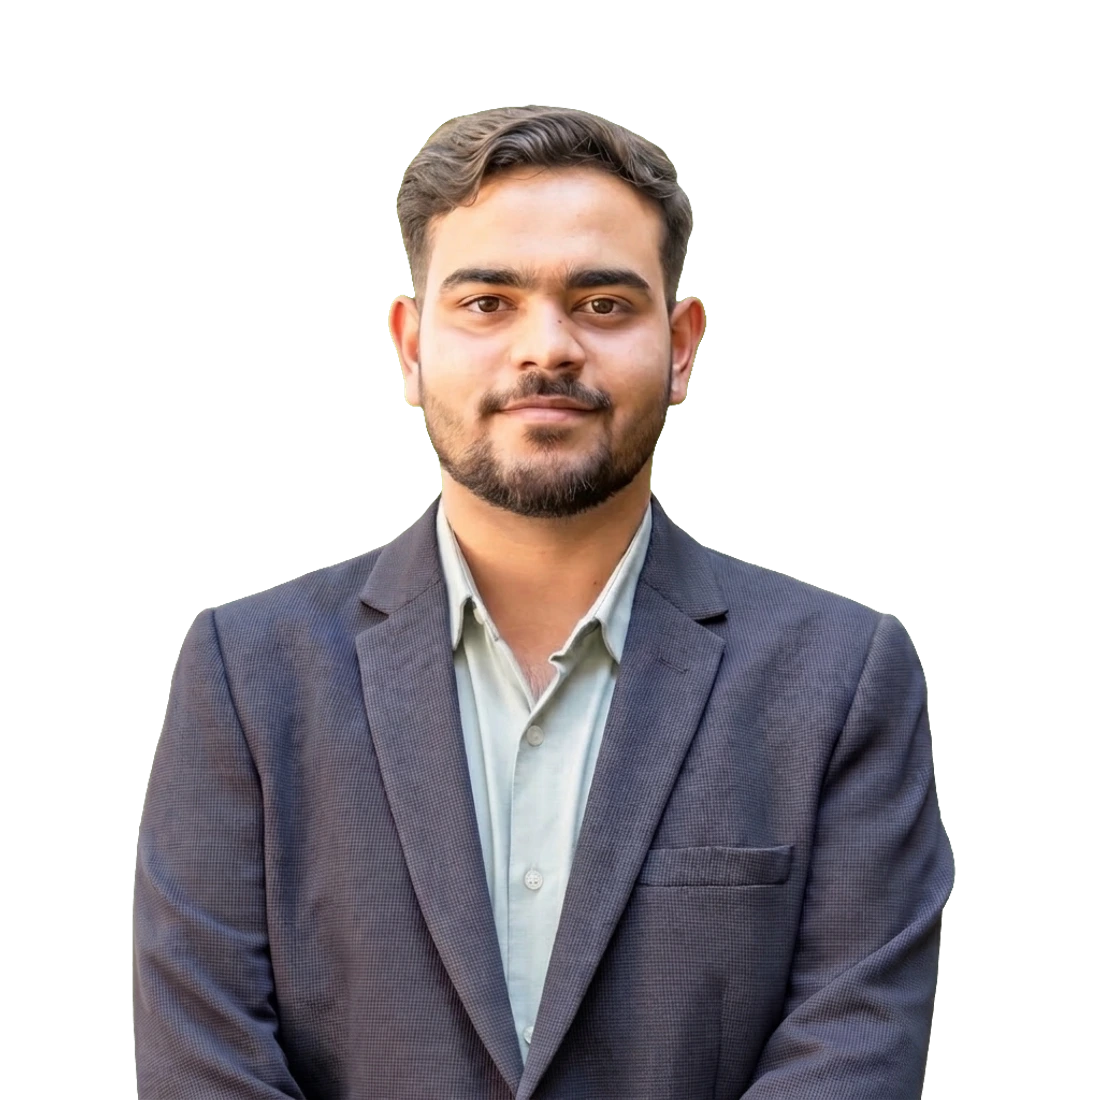
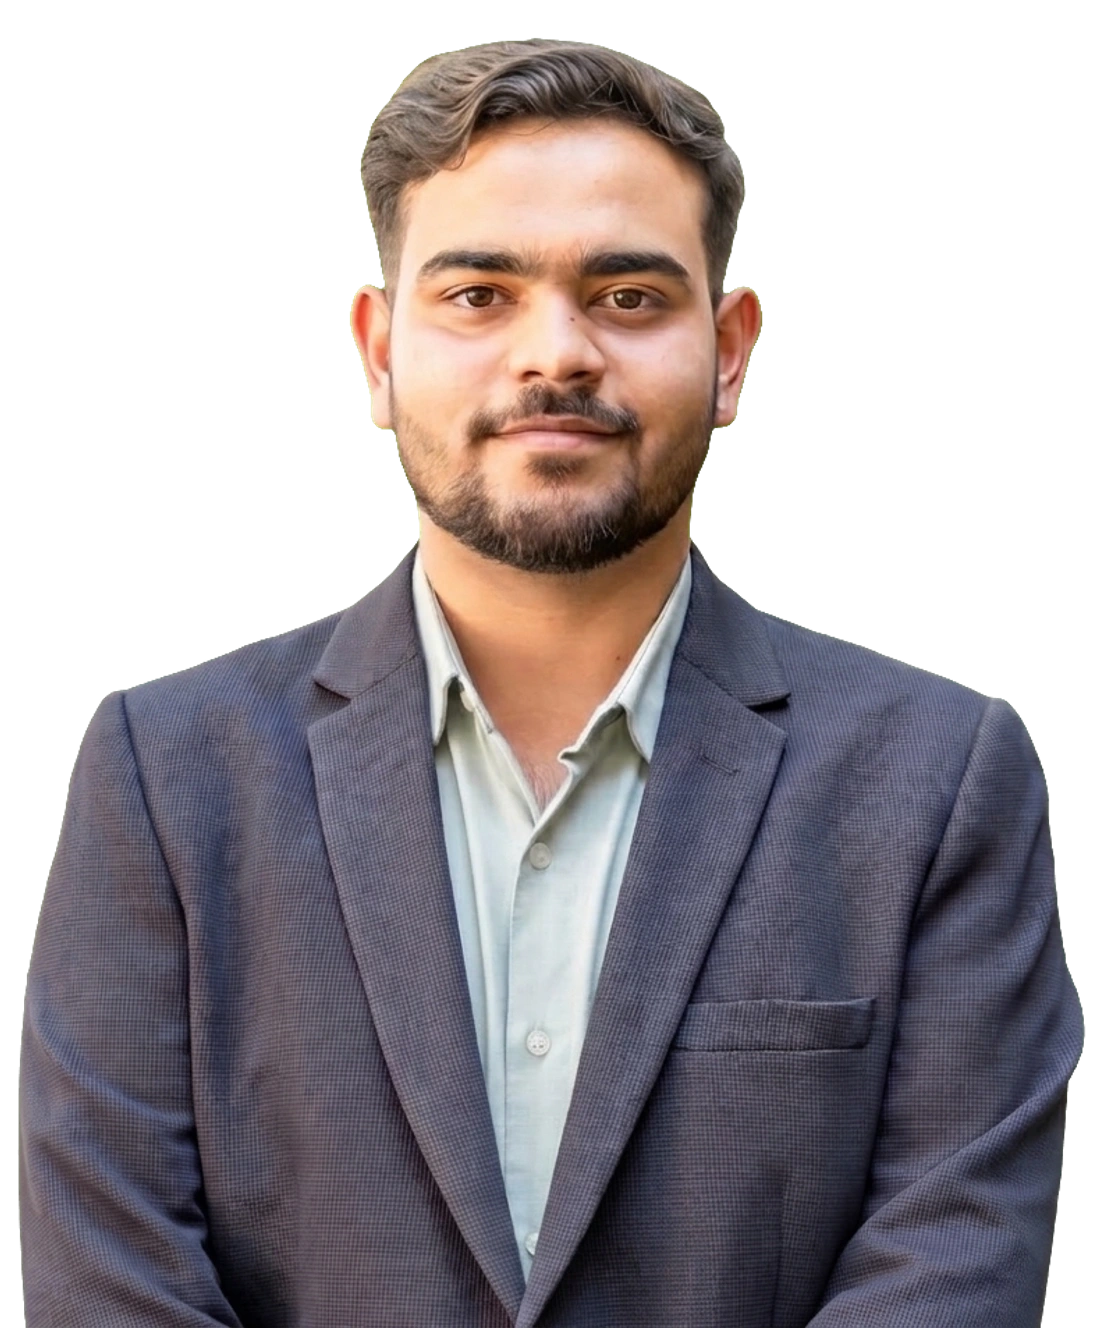
fix: adjust portrait framing, remove series branding, and shorten about me bio

diff --git a/src/components/OpeningSequence.tsx b/src/components/OpeningSequence.tsx
@@ -6,20 +6,19 @@ import { EASE, Magnetic } from './fx';
 
 /**
  * The signature moment:
- * black → studio card → KAUSHAL → THE SERIES → portrait reveal → role → ▶ PLAY
+ * black → studio card → KAUSHAL → portrait reveal → role → ▶ PLAY
  */
 const TIMELINE = [
   { at: 300, beat: 1 }, // studio card
-  { at: 1900, beat: 2 }, // name
-  { at: 2700, beat: 3 }, // THE SERIES
-  { at: 3400, beat: 4 }, // portrait
-  { at: 4300, beat: 5 }, // role
-  { at: 5000, beat: 6 }, // play button
+  { at: 1800, beat: 2 }, // name
+  { at: 2800, beat: 3 }, // portrait
+  { at: 3700, beat: 4 }, // role
+  { at: 4400, beat: 5 }, // play button
 ];
 
 export default function OpeningSequence({ onDone }: { onDone: () => void }) {
   const reduced = useReducedMotionPref();
-  const [beat, setBeat] = useState(reduced ? 6 : 0);
+  const [beat, setBeat] = useState(reduced ? 5 : 0);
 
   useEffect(() => {
     if (reduced) return;
@@ -44,8 +43,8 @@ export default function OpeningSequence({ onDone }: { onDone: () => void }) {
       aria-label="Opening titles"
     >
       {/* letterbox bars */}
-      <motion.div className="absolute inset-x-0 top-0 z-30 h-[7vh] bg-black" initial={{ y: 0 }} animate={{ y: beat >= 6 ? '-100%' : 0 }} transition={{ duration: 1.2, ease: EASE }} />
-      <motion.div className="absolute inset-x-0 bottom-0 z-30 h-[7vh] bg-black" initial={{ y: 0 }} animate={{ y: beat >= 6 ? '100%' : 0 }} transition={{ duration: 1.2, ease: EASE }} />
+      <motion.div className="absolute inset-x-0 top-0 z-30 h-[7vh] bg-black" initial={{ y: 0 }} animate={{ y: beat >= 5 ? '-100%' : 0 }} transition={{ duration: 1.2, ease: EASE }} />
+      <motion.div className="absolute inset-x-0 bottom-0 z-30 h-[7vh] bg-black" initial={{ y: 0 }} animate={{ y: beat >= 5 ? '100%' : 0 }} transition={{ duration: 1.2, ease: EASE }} />
 
       {/* projector flicker light */}
       <motion.div
@@ -82,18 +81,17 @@ export default function OpeningSequence({ onDone }: { onDone: () => void }) {
 
       {/* portrait */}
       <motion.div
-        className="absolute inset-x-0 bottom-0 z-0 mx-auto flex h-[68vh] max-w-[900px] items-end justify-center"
+        className="absolute inset-x-0 bottom-0 z-0 mx-auto flex h-[74vh] max-w-[700px] items-end justify-center"
         initial={{ opacity: 0, scale: 1.12, filter: 'blur(18px) brightness(0.3)' }}
-        animate={beat >= 4 ? { opacity: 1, scale: 1, filter: 'blur(0px) brightness(1)' } : {}}
+        animate={beat >= 3 ? { opacity: 1, scale: 1, filter: 'blur(0px) brightness(1)' } : {}}
         transition={{ duration: 1.6, ease: EASE }}
       >
         <img
           src={profile.portrait.src}
           srcSet={profile.portrait.srcSet}
-          sizes="(max-width: 768px) 100vw, 900px"
+          sizes="(max-width: 768px) 100vw, 700px"
           alt={profile.portrait.alt}
-          className="h-full w-auto max-w-none object-contain object-bottom [mask-image:linear-gradient(to_bottom,black_55%,transparent_98%)]"
-
+          className="h-full w-auto max-w-none object-contain object-bottom [mask-image:linear-gradient(to_bottom,black_80%,transparent_100%)]"
         />
       </motion.div>
       <div aria-hidden className="absolute inset-0 z-[1] bg-[radial-gradient(70%_60%_at_50%_40%,transparent_30%,rgba(0,0,0,0.85)_100%)]" />
@@ -104,19 +102,11 @@ export default function OpeningSequence({ onDone }: { onDone: () => void }) {
           className="font-display leading-[0.82] text-bone drop-shadow-[0_8px_40px_rgba(0,0,0,0.8)]"
           style={{ fontSize: 'clamp(4.6rem, 20vw, 15rem)' }}
           initial={{ opacity: 0, scale: 1.3, filter: 'blur(20px)', letterSpacing: '0.5em' }}
-          animate={beat >= 2 ? { opacity: 1, scale: 1, filter: 'blur(0px)', letterSpacing: '0.04em', y: beat >= 4 ? '-30vh' : 0 } : {}}
+          animate={beat >= 2 ? { opacity: 1, scale: 1, filter: 'blur(0px)', letterSpacing: '0.04em', y: beat >= 3 ? '-30vh' : 0 } : {}}
           transition={{ duration: 1.3, ease: EASE }}
         >
           {profile.firstName}
         </motion.h1>
-        <motion.p
-          className="font-sans text-sm font-bold text-crimson-2 [text-shadow:0_2px_20px_rgba(0,0,0,0.9)] sm:text-lg"
-          initial={{ opacity: 0, letterSpacing: '1.4em' }}
-          animate={beat >= 3 ? { opacity: 1, letterSpacing: '0.7em', y: beat >= 4 ? '-30vh' : 0 } : {}}
-          transition={{ duration: 1.1, ease: EASE }}
-        >
-          {profile.seriesTag}
-        </motion.p>
       </div>
 
       {/* role + play */}
@@ -124,18 +114,18 @@ export default function OpeningSequence({ onDone }: { onDone: () => void }) {
         <motion.p
           className="font-sans text-[10px] font-semibold uppercase tracking-[0.22em] text-bone/90 sm:text-sm sm:tracking-[0.4em]"
           initial={{ opacity: 0, y: 14 }}
-          animate={beat >= 5 ? { opacity: 1, y: 0 } : {}}
+          animate={beat >= 4 ? { opacity: 1, y: 0 } : {}}
           transition={{ duration: 0.8, ease: EASE }}
         >
           {profile.tagline.join('  •  ')}
         </motion.p>
-        <motion.div initial={{ opacity: 0, scale: 0.8 }} animate={beat >= 6 ? { opacity: 1, scale: 1 } : {}} transition={{ duration: 0.7, ease: EASE }}>
+        <motion.div initial={{ opacity: 0, scale: 0.8 }} animate={beat >= 5 ? { opacity: 1, scale: 1 } : {}} transition={{ duration: 0.7, ease: EASE }}>
           <Magnetic>
             <button
               type="button"
               data-cursor="play"
               onClick={onDone}
-              tabIndex={beat >= 6 ? 0 : -1}
+              tabIndex={beat >= 5 ? 0 : -1}
               className="group flex items-center gap-3 rounded-full bg-bone px-9 py-4 font-sans text-base font-bold tracking-wide text-ink shadow-[0_0_60px_rgba(229,19,43,0.45)] transition hover:bg-white"
             >
               <span className="text-lg transition-transform group-hover:scale-125">▶</span> PLAY

diff --git a/src/components/Hero.tsx b/src/components/Hero.tsx
@@ -4,7 +4,6 @@ import { achievements, profile, type ProfileId } from '../data/portfolio';
 import { useFinePointer } from '../hooks/useMedia';
 import { useSmoothScroll } from '../hooks/smoothScroll';
 import { EASE, Magnetic, Particles } from './fx';
-import { SeriesMark } from './Poster';
 
 const container = { hidden: {}, show: { transition: { staggerChildren: 0.09, delayChildren: 0.25 } } };
 const item = {
@@ -74,11 +73,11 @@ export default function Hero({ onPlay, onResume, profileId }: { onPlay: () => vo
 
       {/* portrait */}
       <motion.div
-        className="absolute inset-x-0 top-12 z-[2] flex h-[64svh] items-end justify-center sm:h-[70svh] lg:bottom-0 lg:left-auto lg:right-[3vw] lg:top-20 lg:h-auto lg:w-[54vw] xl:right-[6vw] xl:w-[48vw]"
+        className="absolute inset-x-0 top-12 z-[2] flex h-[66svh] items-end justify-center sm:h-[72svh] lg:bottom-0 lg:left-auto lg:right-[3vw] lg:top-12 lg:h-auto lg:w-[54vw] xl:right-[6vw] xl:w-[48vw]"
         style={{ y: imgY, scale: imgScale, opacity: fade }}
       >
         <motion.div
-          className="relative h-full w-full lg:h-[86vh]"
+          className="relative h-full w-full lg:h-[90vh]"
           style={{ rotateY: imgRotY, rotateX: imgRotX, x: imgShiftX, transformPerspective: 1200 }}
           initial={{ clipPath: 'inset(100% -30% -10% -30%)', opacity: 0 }}
           animate={{ clipPath: 'inset(-30% -30% -10% -30%)', opacity: 1 }}
@@ -91,8 +90,7 @@ export default function Hero({ onPlay, onResume, profileId }: { onPlay: () => vo
             srcSet={profile.portrait.srcSet}
             sizes="(max-width: 1024px) 100vw, 54vw"
             alt={profile.portrait.alt}
-
-            className="absolute bottom-0 left-1/2 h-full w-auto max-w-none -translate-x-1/2 object-contain object-bottom drop-shadow-[0_30px_60px_rgba(0,0,0,0.6)] [mask-image:linear-gradient(to_bottom,black_62%,transparent_97%)]"
+            className="absolute bottom-0 left-1/2 h-full w-auto max-w-none -translate-x-1/2 object-contain object-bottom drop-shadow-[0_30px_60px_rgba(0,0,0,0.6)] [mask-image:linear-gradient(to_bottom,black_82%,transparent_100%)]"
           />
           {/* crimson rim light on the image edge */}
           <div aria-hidden className="pointer-events-none absolute inset-0 bg-[radial-gradient(60%_50%_at_80%_30%,rgba(255,61,90,0.16),transparent_70%)] mix-blend-screen" />
@@ -117,14 +115,11 @@ export default function Hero({ onPlay, onResume, profileId }: { onPlay: () => vo
         initial="hidden"
         animate="show"
       >
-        <motion.div variants={item} className="mb-3 text-lg">
-          <SeriesMark />
-        </motion.div>
         <motion.h1 variants={item} className="font-display leading-[0.82] tracking-[0.02em] text-bone" style={{ fontSize: 'clamp(4rem, 12vw, 11rem)' }}>
           <span className="shimmer-text">{profile.firstName}</span>
         </motion.h1>
-        <motion.p variants={item} className="mt-1 font-sans text-sm font-bold tracking-[0.62em] text-crimson-2 sm:text-base">
-          {profile.seriesTag}
+        <motion.p variants={item} className="mt-2 font-sans text-xs font-bold tracking-[0.34em] text-crimson-2 sm:text-sm">
+          {profile.role.toUpperCase()}
         </motion.p>
 
         <motion.div variants={item} className="mt-5 flex flex-wrap items-center gap-x-3 gap-y-2 text-[13px] font-medium text-mist">

diff --git a/src/components/About.tsx b/src/components/About.tsx
@@ -31,15 +31,15 @@ export default function About() {
               sizes="(max-width: 1024px) 90vw, 40vw"
               alt={profile.portrait.alt}
               loading="lazy"
-              className="absolute bottom-0 left-1/2 h-[92%] w-auto max-w-none -translate-x-1/2 object-contain object-bottom"
+              className="absolute bottom-0 left-1/2 h-[96%] w-auto max-w-none -translate-x-1/2 object-contain object-bottom"
             />
-            <div className="absolute inset-x-0 bottom-0 h-1/3 bg-gradient-to-t from-black/90 to-transparent" />
+            <div className="absolute inset-x-0 bottom-0 h-28 bg-gradient-to-t from-black/90 via-black/40 to-transparent" />
             <div className="absolute bottom-5 left-5 right-5 flex items-end justify-between">
               <div>
                 <p className="text-[10px] font-bold tracking-[0.3em] text-crimson-2">STARRING</p>
                 <p className="font-display text-3xl leading-none text-bone">{profile.displayName}</p>
               </div>
-              <span className="rounded border border-white/30 px-1.5 text-[10px] font-bold text-bone">S01–S05</span>
+              <span className="rounded border border-white/30 px-1.5 text-[10px] font-bold text-bone">2024–2027</span>
             </div>
           </div>
         </Tilt>
@@ -47,13 +47,13 @@ export default function About() {
 
         <div>
           <motion.p
-            className="font-serif text-[clamp(1.6rem,3.2vw,2.6rem)] italic leading-[1.15] text-bone"
+            className="font-serif text-[clamp(1.5rem,2.6vw,2.2rem)] italic leading-[1.2] text-bone"
             initial={{ opacity: 0, y: 24, filter: 'blur(8px)' }}
             whileInView={{ opacity: 1, y: 0, filter: 'blur(0px)' }}
             viewport={{ once: true }}
             transition={{ duration: 1, ease: EASE }}
           >
-            “{profile.intro}”
+            “{profile.shortBio}”
           </motion.p>
           <p className="mt-4 text-sm text-mist">— {profile.fullName}</p>
 

diff --git a/src/data/portfolio.ts b/src/data/portfolio.ts
@@ -10,13 +10,15 @@ export const profile = {
   fullName: 'Kaushal Kumar Singh',
   displayName: 'Kaushal Kumar Singh',
   firstName: 'KAUSHAL',
-  seriesTag: 'THE SERIES',
+  seriesTag: '',
   /** Fictional studio card shown at the very start of the opening sequence. */
-  originalLabel: 'A KAUSHAL ORIGINAL',
+  originalLabel: 'PRESIDENCY UNIVERSITY • STUDENT LEADERSHIP',
   role: 'Student Leader & Event Coordinator',
   tagline: ['Student Leader', 'Campus Community Builder', 'Event Coordinator'],
+  shortBio:
+    'Student leader, campus community builder, and President of CogniCore & Metaverse Society Club at Presidency University — leading 58+ university and community events.',
   intro:
-    'Third-year Bachelor of Computer Applications student at Presidency University, Bengaluru, with strong experience in student leadership, campus engagement, event coordination, community building, and media activities. Currently serving as the President of CogniCore Club and Metaverse Society Club, with experience coordinating 30+ university events and 28+ NSS events.',
+    'Third-year BCA student at Presidency University, Bengaluru, serving as President of CogniCore Club & Metaverse Society Club, with experience coordinating 30+ university events and 28+ NSS events across campus.',
   location: 'Bengaluru, Karnataka, India',
   phone: '8797786686',
   email: 'kaushalkumarsingh.7239@gmail.com',
@@ -587,7 +589,7 @@ export const viewerProfiles: {
   {
     id: 'kaushal',
     name: 'Kaushal',
-    blurb: 'The full series, in order',
+    blurb: 'The full story, in order',
     color: '#e5132b',
     order: ['about', 'journey', 'originals', 'picks', 'skills', 'moments', 'story'],
   },

diff --git a/index.html b/index.html
@@ -3,10 +3,10 @@
   <head>
     <meta charset="UTF-8" />
     <meta name="viewport" content="width=device-width, initial-scale=1.0, viewport-fit=cover" />
-    <title>Kaushal — The Series</title>
-    <meta name="description" content="Kaushal Kumar Singh — Student Leader, Campus Community Builder & Event Coordinator at Presidency University, Bengaluru. A cinematic, streaming-inspired portfolio." />
+    <title>Kaushal Kumar Singh | Student Leader &amp; Event Coordinator</title>
+    <meta name="description" content="Kaushal Kumar Singh — Student Leader, Campus Community Builder & Event Coordinator at Presidency University, Bengaluru." />
     <meta name="theme-color" content="#07070a" />
-    <meta property="og:title" content="Kaushal — The Series" />
+    <meta property="og:title" content="Kaushal Kumar Singh | Portfolio" />
     <meta property="og:description" content="Student Leader • Campus Community Builder • Event Coordinator. Presidency University, Bengaluru." />
     <meta property="og:image" content="/assets/og-image.jpg" />
     <meta name="twitter:card" content="summary_large_image" />
@@ -18,7 +18,7 @@
   </head>
   <body>
     <div id="root"></div>
-    <noscript>Kaushal Kumar Singh — Student Leader & Event Coordinator. Please enable JavaScript to watch the series.</noscript>
+    <noscript>Kaushal Kumar Singh — Student Leader &amp; Event Coordinator. Please enable JavaScript to view the portfolio.</noscript>
     <script type="module" src="/src/main.tsx"></script>
   </body>
 </html>

diff --git a/src/components/Poster.tsx b/src/components/Poster.tsx
@@ -96,11 +96,11 @@ export function ProjectArt({ project, className = '' }: { project: Project; clas
 /** Small fictional platform mark used in the nav and on cards. */
 export function SeriesMark({ className = '' }: { className?: string }) {
   return (
-    <span className={`inline-flex items-center gap-1.5 ${className}`}>
-      <svg viewBox="0 0 24 32" className="h-[1.1em] w-auto" aria-hidden>
+    <span className={`inline-flex items-center gap-2 ${className}`}>
+      <svg viewBox="0 0 24 32" className="h-[1.15em] w-auto shrink-0" aria-hidden>
         <path d="M5 4 v24 M19 5 L5 16 L19 27" fill="none" stroke="#e5132b" strokeWidth="4" strokeLinecap="round" strokeLinejoin="round" />
       </svg>
-      <span className="font-sans text-[0.62em] font-bold tracking-[0.36em] text-mist">SERIES</span>
+      <span className="font-sans text-[0.72em] font-bold tracking-[0.24em] text-bone">KAUSHAL</span>
     </span>
   );
 }

diff --git a/src/components/ProfileSelector.tsx b/src/components/ProfileSelector.tsx
@@ -9,7 +9,7 @@ export function ProfileAvatar({ id, size = 'lg' }: { id: ProfileId; size?: 'sm' 
   if (id === 'kaushal') {
     return (
       <span className={`relative block overflow-hidden ${box}`} style={{ background: 'radial-gradient(circle at 50% 30%, #7a0f24, #1a0509)' }}>
-        <img src="/assets/portrait-420.webp" alt="" className="absolute inset-x-0 bottom-0 mx-auto h-[115%] w-auto max-w-none -translate-x-[3%] object-cover object-top" />
+        <img src="/assets/avatar-320.webp" alt={profile.displayName} className="h-full w-full object-cover object-center" />
       </span>
     );
   }

diff --git a/README.md b/README.md
@@ -1,7 +1,7 @@
-# KAUSHAL — THE SERIES
+# KAUSHAL KUMAR SINGH — PORTFOLIO
 
-A cinematic, streaming-inspired portfolio for **Kaushal Kumar Singh**: Student Leader, Campus Community Builder & Event Coordinator at Presidency University, Bengaluru.
-Every section is an episode, every leadership milestone is an Original, and the whole site plays like a series.
+A cinematic, interactive portfolio for **Kaushal Kumar Singh**: Student Leader, Campus Community Builder & Event Coordinator at Presidency University, Bengaluru.
+Every section highlights leadership milestones, club presidency, and campus initiatives in an immersive showcase.
 
 > A personal portfolio with a fictional streaming-platform look. It is not affiliated with Netflix or any other streaming service and uses none of their logos.
 
